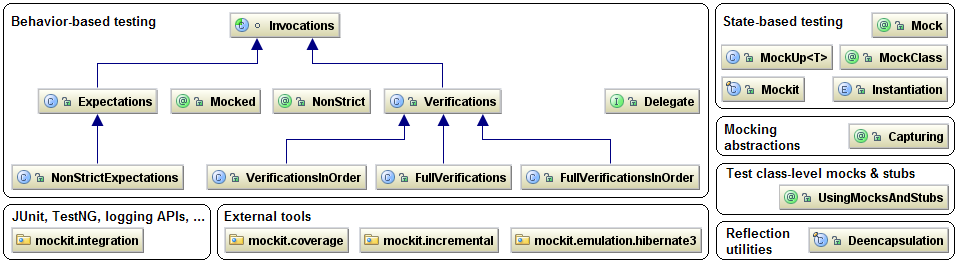
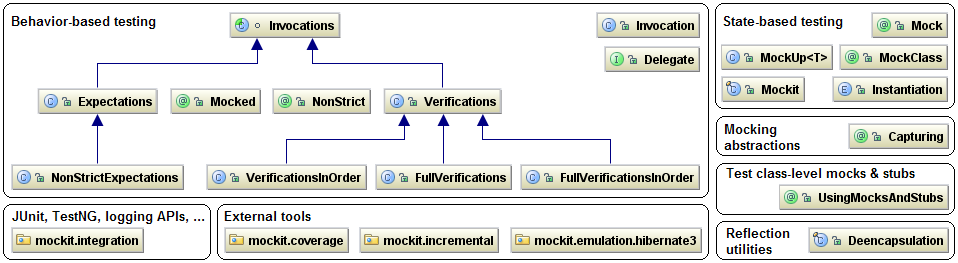
Added new "Invocation" class to API figures.
git-svn-id: http://jmockit.googlecode.com/svn/trunk@498 4d38ed0c-b8d3-11de-a71d-8f2b2e058ad8

Changed region(s): [[0.6054, 0.0304, 0.7568, 0.2738], [0.6054, 0.3346, 0.7568, 0.4563]]

diff --git a/www/about.html b/www/about.html
@@ -51,7 +51,8 @@
       <area shape="rect" coords="205,163,367,190" href="javadoc/mockit/VerificationsInOrder.html">
       <area shape="rect" coords="374,163,512,190" href="javadoc/mockit/FullVerifications.html">
       <area shape="rect" coords="519,163,700,190" href="javadoc/mockit/FullVerificationsInOrder.html">
-      <area shape="rect" coords="603,87,700,114" href="javadoc/mockit/Delegate.html">
+      <area shape="rect" coords="595,12,700,38" href="javadoc/mockit/Invocation.html">
+      <area shape="rect" coords="603,45,700,72" href="javadoc/mockit/Delegate.html">
 
       <area shape="rect" coords="720,10,850,32" href="tutorial/StateBasedTesting.html">
       <area shape="rect" coords="720,43,833,70" href="javadoc/mockit/MockUp.html">

diff --git a/www/overview.html b/www/overview.html
@@ -20,7 +20,8 @@
       <area shape="rect" coords="205,163,367,190" href="mockit/VerificationsInOrder.html">
       <area shape="rect" coords="374,163,512,190" href="mockit/FullVerifications.html">
       <area shape="rect" coords="519,163,700,190" href="mockit/FullVerificationsInOrder.html">
-      <area shape="rect" coords="603,87,700,114" href="mockit/Delegate.html">
+      <area shape="rect" coords="595,12,700,38" href="mockit/Invocation.html">
+      <area shape="rect" coords="603,45,700,72" href="mockit/Delegate.html">
 
       <area shape="rect" coords="720,10,850,32" href="../tutorial/StateBasedTesting.html">
       <area shape="rect" coords="720,43,833,70" href="mockit/MockUp.html">
